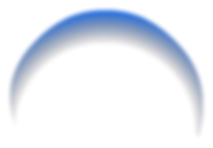
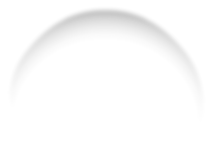
shield tweaking

Changed region(s): [[0.0282, 0.0541, 0.9577, 0.8919]]

diff --git a/PvT/Assets/scripts/GameController.cs b/PvT/Assets/scripts/GameController.cs
@@ -121,7 +121,7 @@ public sealed class GameController
         go.layer = (int)Consts.Layer.MOB;
     }
 
-    public void SpawnAmmo(Actor launcher, VehicleType type, WorldObjectType.Weapon weapon, Consts.Layer layer)
+    public GameObject SpawnAmmo(Actor launcher, VehicleType type, WorldObjectType.Weapon weapon, Consts.Layer layer)
     {
         var go = type.Spawn();
         go.transform.parent = ammoParent.transform;
@@ -139,17 +139,7 @@ public sealed class GameController
         ammo.timeToLive = 2;
         ammo.collisionDamage = weapon.damage;
 
-        var scale = launcher.transform.localScale;
-        var scaledOffset = new Vector2(weapon.offset.x, weapon.offset.y);
-        scaledOffset.Scale(scale);
-        scaledOffset.y = weapon.offset.y;  //KAI: not sure why....
-
-        //Debug.Log(string.Format("{0} -> {1}, scale {2}", weapon.offset, scaledOffset, scale));
-
-        ammo.transform.localPosition = Consts.Add(launcher.transform.position, scaledOffset);
-        ammo.transform.RotateAround(launcher.transform.position, Vector3.forward, launcher.transform.rotation.eulerAngles.z);
-
-        ammo.transform.Rotate(0, 0, -weapon.angle);
+        Consts.Sneeze(launcher.transform, ammo.transform, weapon.offset, weapon.angle);
         if (type.acceleration == 0)
         {
             // give the ammo instant acceleration
@@ -170,6 +160,7 @@ public sealed class GameController
             // it's a turret
             SpawnMuzzleFlash(ammo);
         }
+        return go;
     }
 
     void SpawnMuzzleFlash(Actor launcher)
@@ -227,9 +218,18 @@ public sealed class GameController
         behaviors.Add(new PlayerInput());
         behaviors.Add(ActorBehaviorFactory.Instance.faceForward);
         behaviors.Add(ActorBehaviorFactory.Instance.faceMouseOnFire);
-        behaviors.Add(ActorBehaviorFactory.Instance.CreatePlayerfire(
-                ActorBehaviorFactory.Instance.CreateAutofire(new RateLimiter(0.5f), Consts.Layer.FRIENDLY_AMMO))
-        );
+
+        //KAI: cheeze
+        if (vehicle.weapons[0].type == "SHIELD")
+        {
+            behaviors.Add(ActorBehaviorFactory.Instance.CreateShield());
+        }
+        else
+        {
+            behaviors.Add(ActorBehaviorFactory.Instance.CreatePlayerfire(
+                    ActorBehaviorFactory.Instance.CreateAutofire(new RateLimiter(0.5f), Consts.Layer.FRIENDLY_AMMO))
+            );
+        }
 
         go.GetComponent<Actor>().behavior = behaviors;
     }

diff --git a/PvT/Assets/scripts/ActorBehavior/ActorBehaviorFactory.cs b/PvT/Assets/scripts/ActorBehavior/ActorBehaviorFactory.cs
@@ -164,6 +164,10 @@ public sealed class ActorBehaviorFactory
     {
         return new PlayerfireBehavior(onFireBehavior);
     }
+    public IActorBehavior CreateShield()
+    {
+        return new PlayerShieldBehavior();
+    }
     public IActorBehavior CreateTankTreadAnimator(GameObject treadLeft, GameObject treadRight)
     {
         return new TankTreadAnimator(treadLeft, treadRight);
@@ -289,6 +293,44 @@ sealed class PlayerfireBehavior : IActorBehavior
     }
 }
 
+sealed class PlayerShieldBehavior : IActorBehavior
+{
+    GameObject _currentShield;
+    public void FixedUpdate(Actor actor)
+    {
+        var firing = (Input.GetButton("Fire1") || Input.GetButton("Jump"));  //KAI: -> utils class
+        if (firing && _currentShield == null)
+        {
+            var game = Main.Instance.game;
+
+            var shieldWeapon = actor.worldObject.weapons[0];
+            var type = game.loader.GetVehicle(shieldWeapon.type);
+            _currentShield = Main.Instance.game.SpawnAmmo(actor, type, shieldWeapon, Consts.Layer.FRIENDLY);
+
+            var shieldActor = _currentShield.GetComponent<Actor>();
+            shieldActor.timeToLive = 0;
+
+            _currentShield.transform.parent = actor.transform;
+            _currentShield.rigidbody2D.velocity = Vector2.zero;
+        }
+
+        if (_currentShield != null)
+        {
+            if (firing)
+            {
+                _currentShield.transform.localPosition = Vector3.zero;
+                _currentShield.transform.rotation = actor.transform.rotation;
+            }
+            else
+            {
+                _currentShield.transform.parent = GameObject.Find("_ammoParent").transform;
+                _currentShield.rigidbody2D.velocity = actor.rigidbody2D.velocity;
+                _currentShield = null;
+            }
+        }
+    }
+}
+
 sealed class TankTreadAnimator : IActorBehavior
 {
     readonly Animator left;
@@ -303,4 +345,3 @@ sealed class TankTreadAnimator : IActorBehavior
         left.speed = right.speed = actor.rigidbody2D.velocity.sqrMagnitude;
     }
 }
-

diff --git a/PvT/Assets/scripts/Consts.cs b/PvT/Assets/scripts/Consts.cs
@@ -81,6 +81,24 @@ public static class Consts
     {
         return new Vector3(Random.Range(-radius, radius), Random.Range(-radius, radius));
     }
+    /// <summary>
+    /// When you want something to launch out the 'nose' of a launcher
+    /// </summary>
+    /// <param name="launcher">The guy with a nose</param>
+    /// <param name="launchee">The projectile</param>
+    static public void Sneeze(Transform launcher, Transform launchee, Vector2 offset, float angle = 0)
+    {
+        var scale = launcher.localScale;
+        var scaledOffset = new Vector2(offset.x, offset.y);
+        scaledOffset.Scale(scale);
+        scaledOffset.y = offset.y;  //KAI: not sure why....
+
+        launchee.localPosition = Consts.Add(launcher.transform.position, scaledOffset);
+        launchee.RotateAround(launcher.transform.position, Vector3.forward, launcher.transform.rotation.eulerAngles.z);
+
+        launchee.Rotate(0, 0, -angle);
+
+    }
     static public void RemoveAllChildren(Transform transform)
     {
         Debug.Log("Destroying children: " + transform.childCount);

diff --git a/PvT/Assets/scripts/Actors/Actor.cs b/PvT/Assets/scripts/Actors/Actor.cs
@@ -3,7 +3,7 @@ using System.Collections;
 
 public class Actor : MonoBehaviour
 {
-    public float health { get; private set; }
+    public float health;// { get; private set; }
     public float collisionDamage;
     public float timeToLive = 0;
     public IActorBehavior behavior { private get; set; }
@@ -80,8 +80,6 @@ public class Actor : MonoBehaviour
 
                 _healthBar.transform.position = transform.position + new Vector3(0, 0.5f);
                 _healthBar.transform.rotation = level;
-                
-                Debug.Log("ROTATING.... " + _healthBar.transform.rotation.eulerAngles.z + " " + _healthBar.transform.localRotation.eulerAngles.z);
             }
         }
 	}
